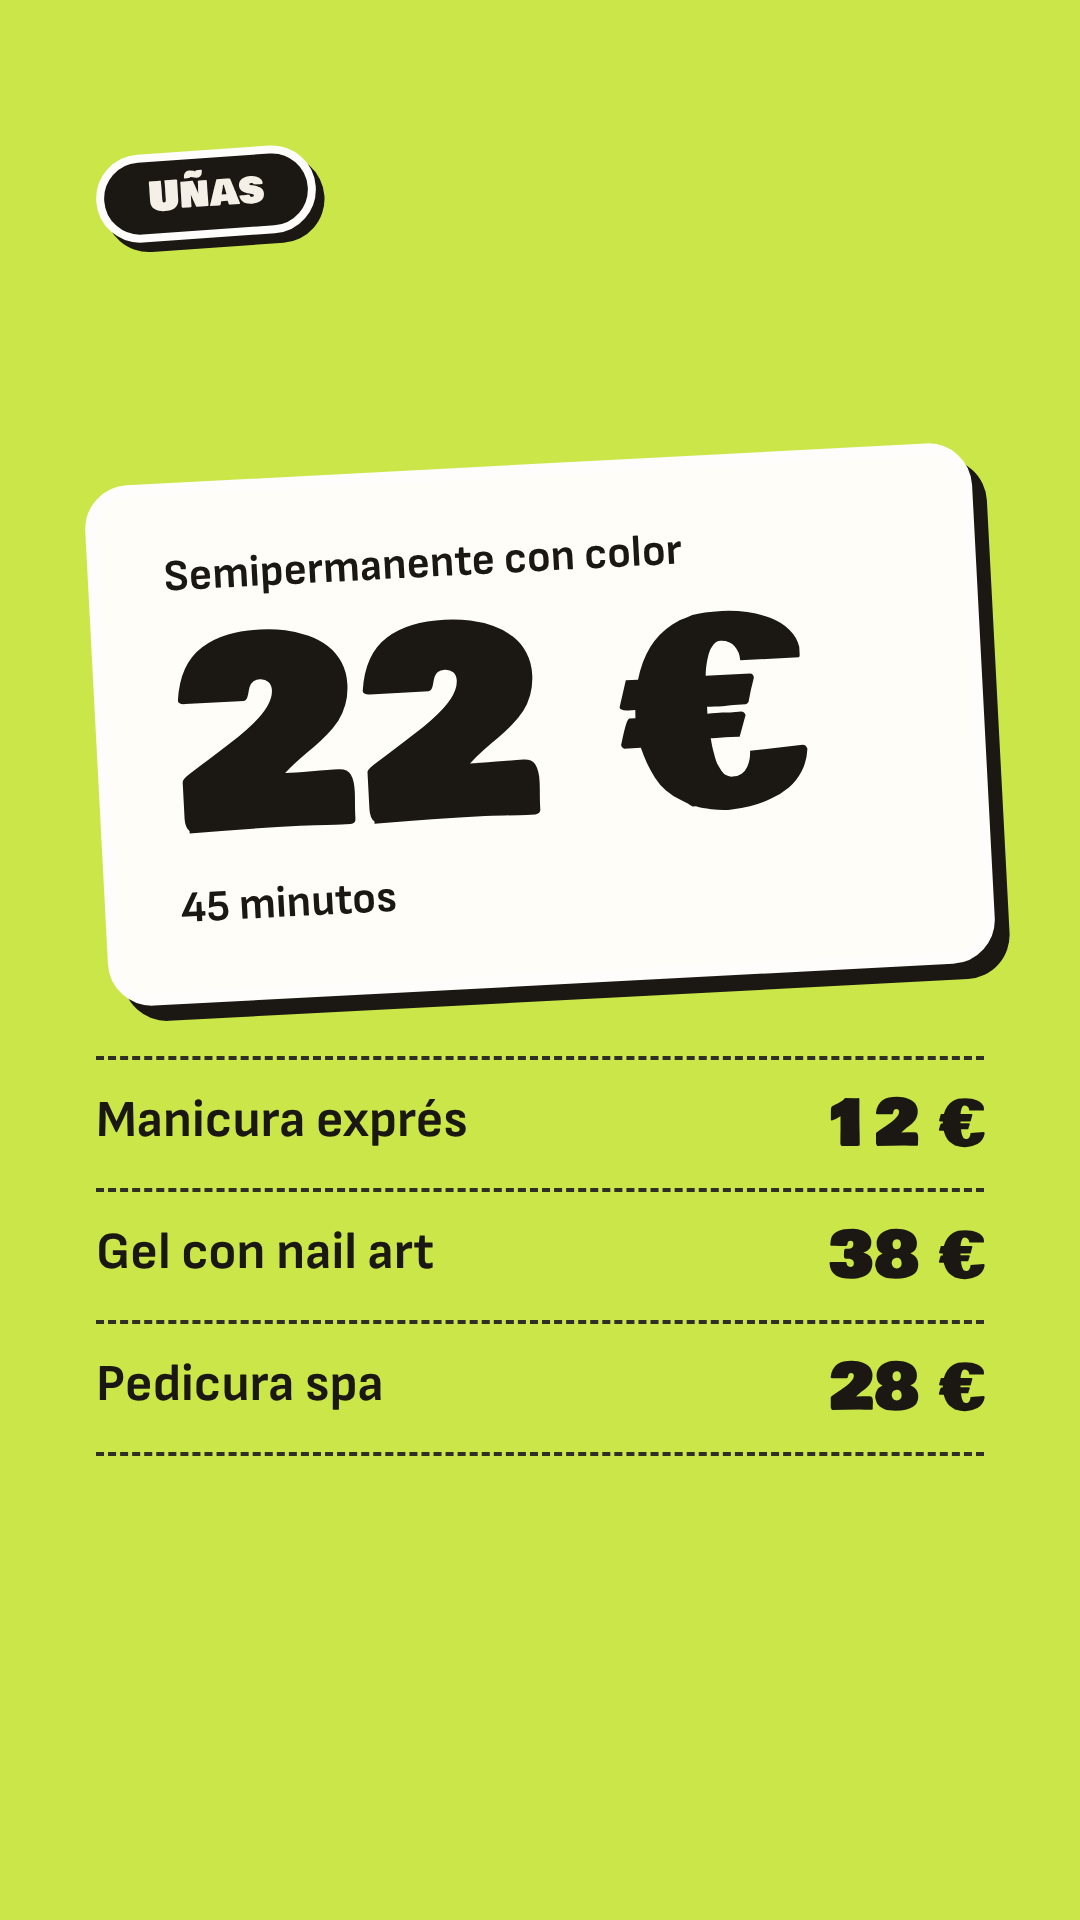
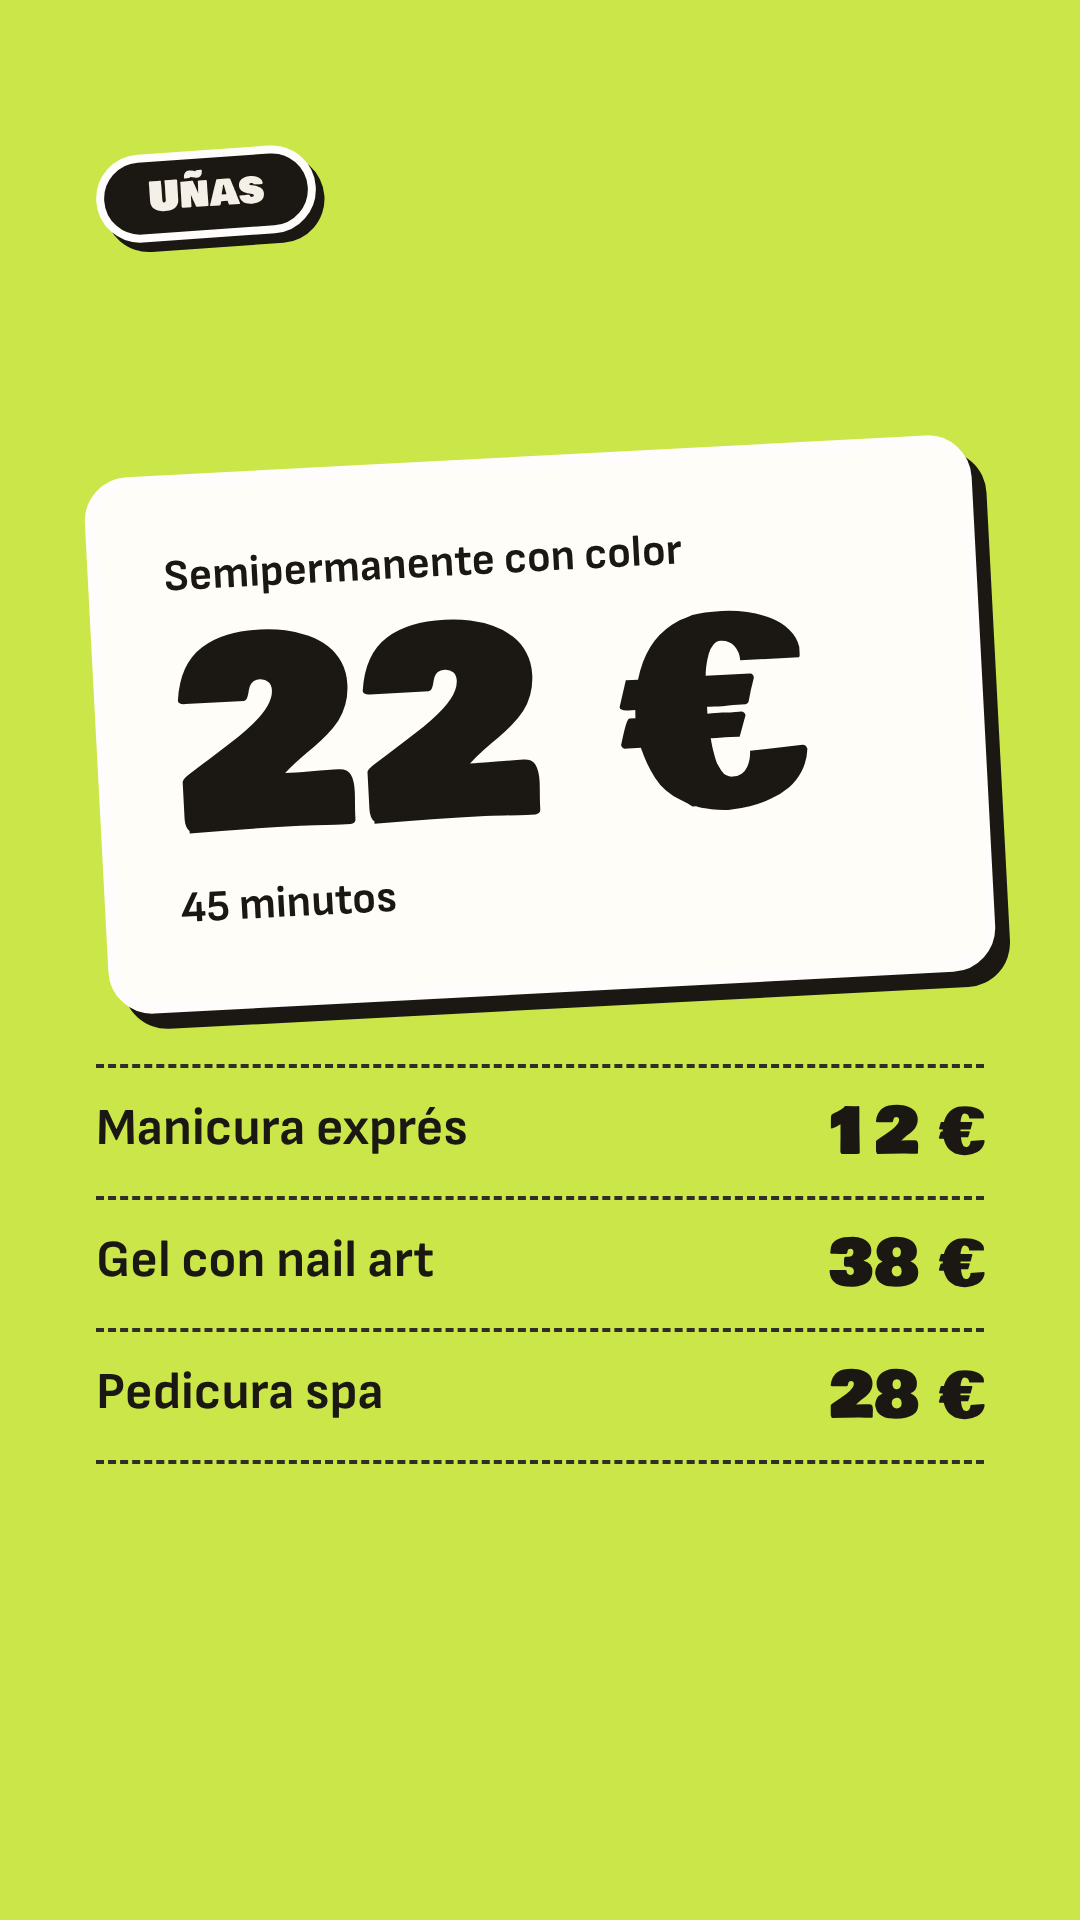
Historias: usar la escala de espaciado
Claude-Session: https://claude.ai/code/session_01LcW5bJViG1W3p2uiHEEPmJ

diff --git a/historias.css b/historias.css
@@ -15,7 +15,7 @@ body { background: var(--color-ink); color: var(--color-paper); }
 .hint { max-width: 40ch; text-align: center; font-size: var(--text-sm); color: var(--color-rule); }
 
 .bars { display: none; }
-.js .bars { position: absolute; z-index: 3; top: 36px; left: 36px; right: 36px; display: grid; grid-template-columns: repeat(5, minmax(0, 1fr)); gap: 10px; }
+.js .bars { position: absolute; z-index: 3; top: 36px; left: 36px; right: 36px; display: grid; grid-template-columns: repeat(5, minmax(0, 1fr)); gap: var(--space-xs); }
 .bars span { height: 8px; border-radius: var(--radius-pill); background: color-mix(in oklch, var(--color-white) 45%, transparent); }
 .bars span.is-done, .bars span.is-on { background: var(--color-white); }
 
@@ -30,7 +30,7 @@ body { background: var(--color-ink); color: var(--color-paper); }
 .export .bars, .export .nav-zone, .export .hint { display: none; }
 
 /* Story canvas: 1080 x 1920, content inside Instagram's safe zone */
-.story { position: relative; display: flex; flex-direction: column; justify-content: center; gap: 72px; width: 1080px; height: 1920px; padding: 300px 96px 300px; overflow: hidden; border-radius: 0; }
+.story { position: relative; display: flex; flex-direction: column; justify-content: center; gap: 72px; width: 1080px; height: 1920px; padding: 300px var(--space-3xl) 300px; overflow: hidden; border-radius: 0; }
 .js:not(.export) .story { border-radius: 40px; }
 .story--pink { background: var(--color-accent); color: var(--color-accent-ink); }
 .story--lime { background: var(--color-accent-2); color: var(--color-ink); }
@@ -38,7 +38,7 @@ body { background: var(--color-ink); color: var(--color-paper); }
 .story--paper { background: var(--color-paper); color: var(--color-ink); }
 
 .story__top { position: absolute; top: 150px; left: 96px; }
-.story__bottom { display: grid; gap: 24px; margin-top: auto; }
+.story__bottom { display: grid; gap: var(--space-lg); margin-top: auto; }
 .story__mega { max-width: 8ch; margin-top: auto; font-size: 150px; line-height: 0.95; }
 .story__head { max-width: 9ch; font-size: 116px; line-height: 1; }
 .story__line { max-width: 18ch; font: 700 64px/1.15 var(--font-body); }
@@ -50,7 +50,7 @@ body { background: var(--color-ink); color: var(--color-paper); }
 .tag--pink { background: var(--color-accent); color: var(--color-accent-ink); }
 .tag--ink { background: var(--color-ink); color: var(--color-paper); }
 
-.card { display: grid; gap: 16px; padding: 56px 64px; border: 12px solid var(--color-white); border-radius: 44px; box-shadow: 14px 16px 0 var(--color-ink); }
+.card { display: grid; gap: var(--space-md); padding: var(--space-2xl); border: 12px solid var(--color-white); border-radius: 44px; box-shadow: 14px 16px 0 var(--color-ink); }
 .story--ink .card { box-shadow: 14px 16px 0 var(--color-ink-2); }
 .card--white { background: var(--color-paper-3); color: var(--color-ink); }
 .card--pink { background: var(--color-accent); color: var(--color-accent-ink); }
@@ -65,7 +65,7 @@ body { background: var(--color-ink); color: var(--color-paper); }
 .list li span:last-child { font: 400 64px/1 var(--font-display); }
 
 .stack { display: grid; gap: 48px; }
-.stack .card { grid-template-columns: minmax(0, 1fr) auto; align-items: center; padding-block: 40px; }
+.stack .card { grid-template-columns: minmax(0, 1fr) auto; align-items: center; padding-block: var(--space-xl); }
 
 .slots { grid-template-columns: repeat(2, minmax(0, 1fr)); gap: 28px; }
 .slots span { display: grid; place-items: center; min-height: 120px; border-radius: var(--radius-pill); box-shadow: inset 0 0 0 5px var(--color-ink); font: 400 56px/1 var(--font-display); }
